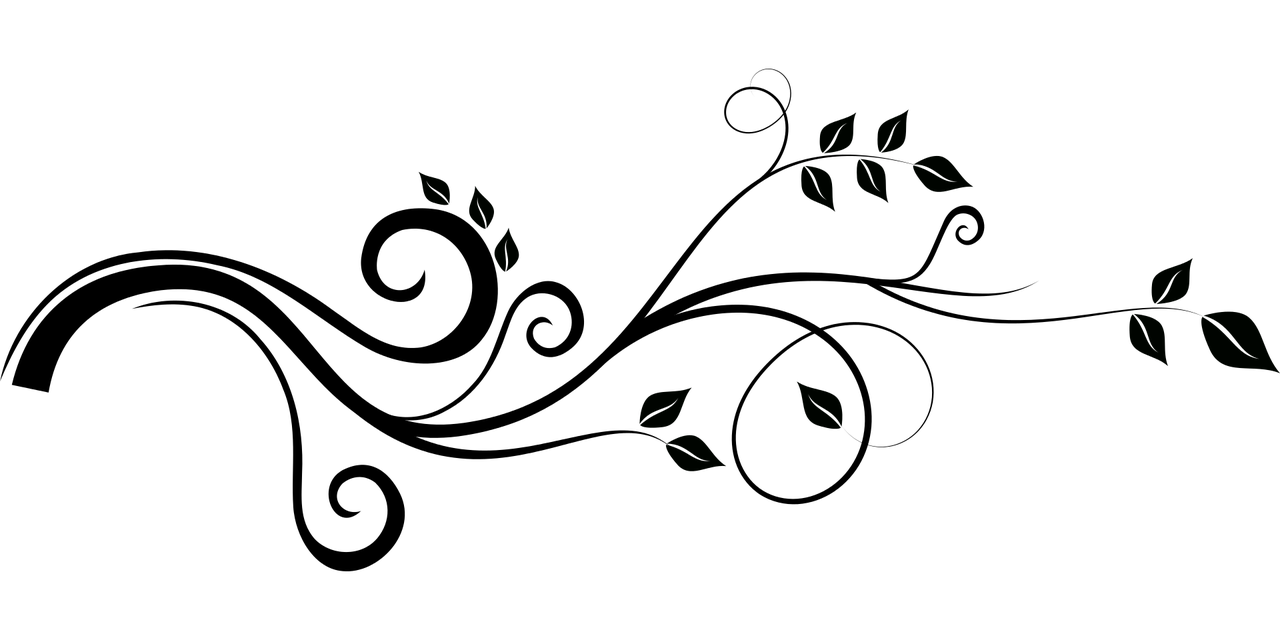
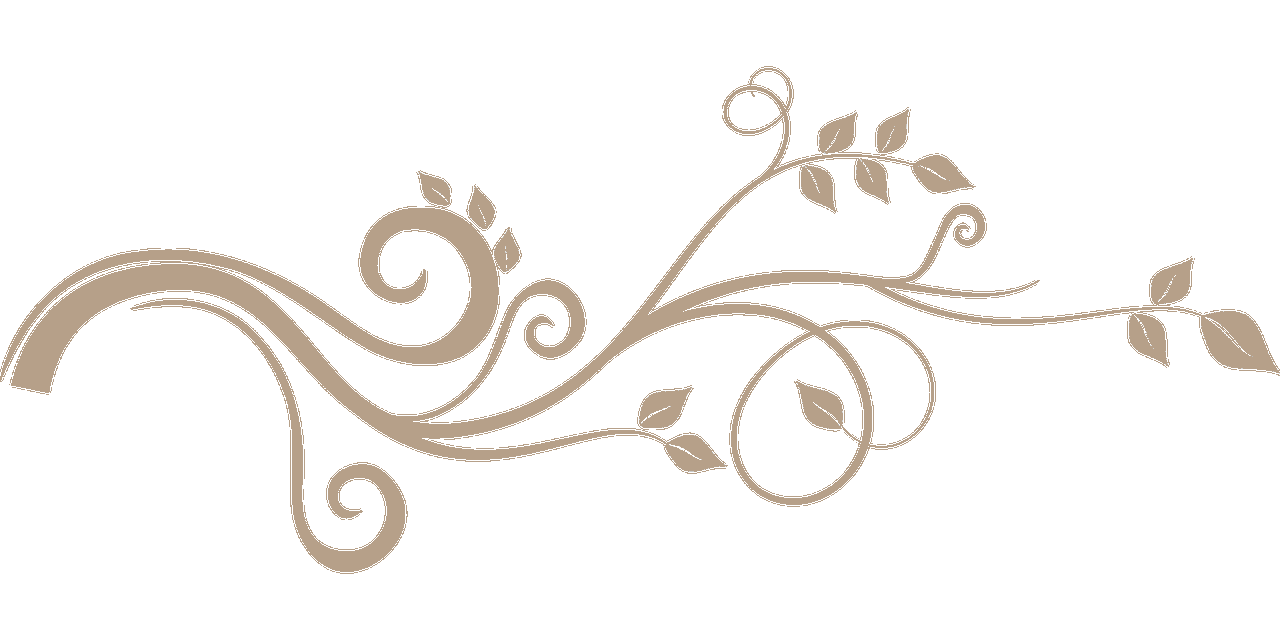
Added space and changed color pattern

diff --git a/index.html b/index.html
@@ -46,18 +46,18 @@
 
       <div class="design-pattern-2"></div>
 
-      <h2 class="beige">Attire</h2>
-      <span class="beige" style="margin-top: 1rem;">Strictly Formal dress code</span>
+      <h2>Attire</h2>
+      <span style="margin-top: 1rem;">Strictly Formal dress code</span>
       <div style="margin-top: 3rem;" class="flex-column">
         <img src="images/barong-filipiniana.png" class="barong-filipiniana" width="50%" />
-        <span class="beige">Traditional filipino attire are welcomed</span>
+        <span>Traditional filipino attire are welcomed</span>
         <a href="https://pin.it/1rZwbriIH" target="_blank" class="rounded-button reference-button">References</a>
       </div>
     </div>
 
     <div class="flex-column">
-      <h2 class="beige">Palette</h2>
-      <span class="beige">We kindly request our guests to wear these colors for our special day</span>
+      <h2>Palette</h2>
+      <span>We kindly request our guests to wear these colors for our special day</span>
       <div class="colors-container">
         <div class="circle circle-1"></div>
         <div class="circle circle-2"></div>
@@ -85,7 +85,7 @@
     </div>
 
 
-    <div class="flex-column">
+    <div class="flex-column gap-1">
       <div class="design-pattern-1"></div>
 
 

diff --git a/styles.css b/styles.css
@@ -157,6 +157,10 @@ span {
   justify-content: center;
 }
 
+.gap-1 {
+  gap: 1rem;
+}
+
 .grid-2-items {
   display: grid;
   grid-template-columns: 1fr 1fr;
@@ -185,8 +189,8 @@ span {
   background-image: url("/images/pattern-1-flowers.png");
   background-size: contain;
   background-repeat: no-repeat;
-  width: 350px;
-  height: 200px;
+  width: 300px;
+  height: 180px;
 }
 
 .design-pattern-2 {
@@ -446,5 +450,15 @@ span {
   .whatsapp-button {
     font-size: 1.8rem;
     width: 15rem;
+  }
+}
+
+@media (max-width: 400px) {
+  .design-pattern-1 {
+    width: 250px;
+  }
+
+  .design-pattern-2 {
+    width: 300px;
   }
 }
